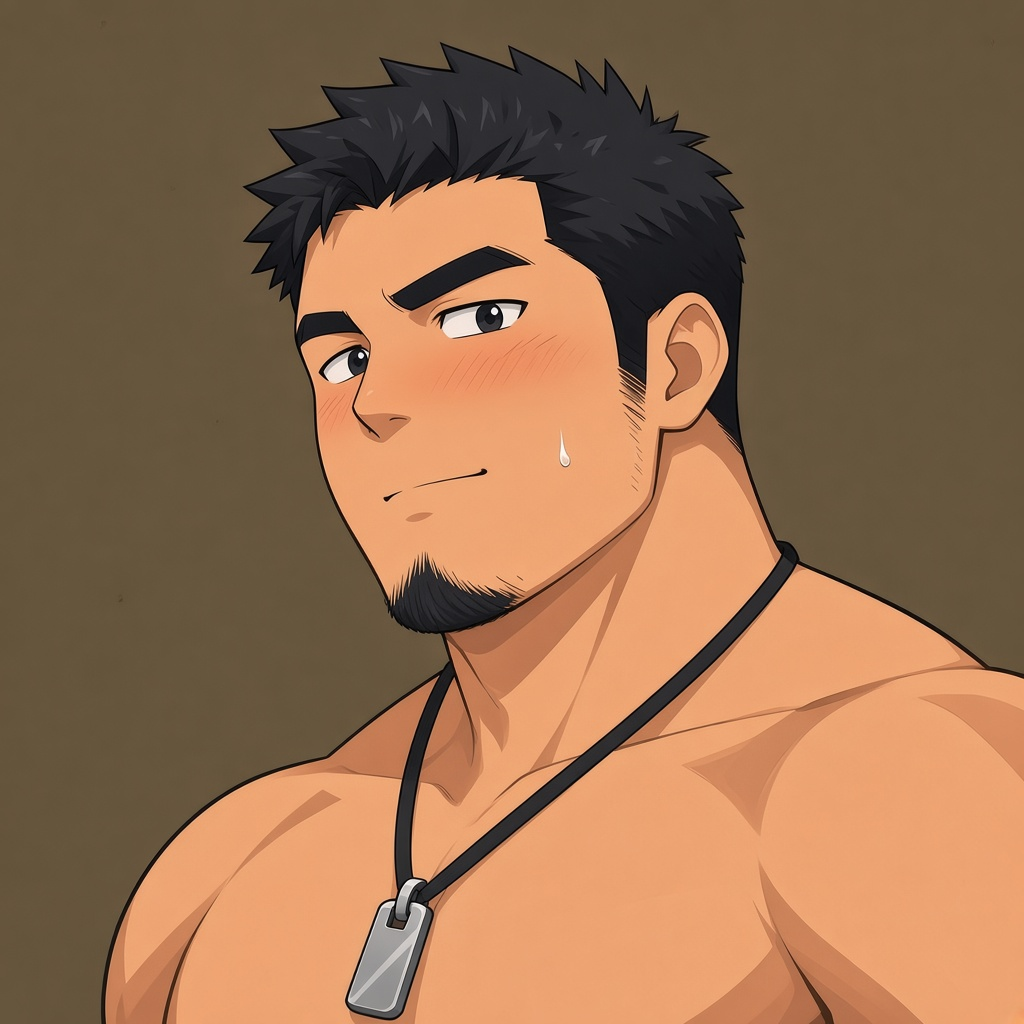
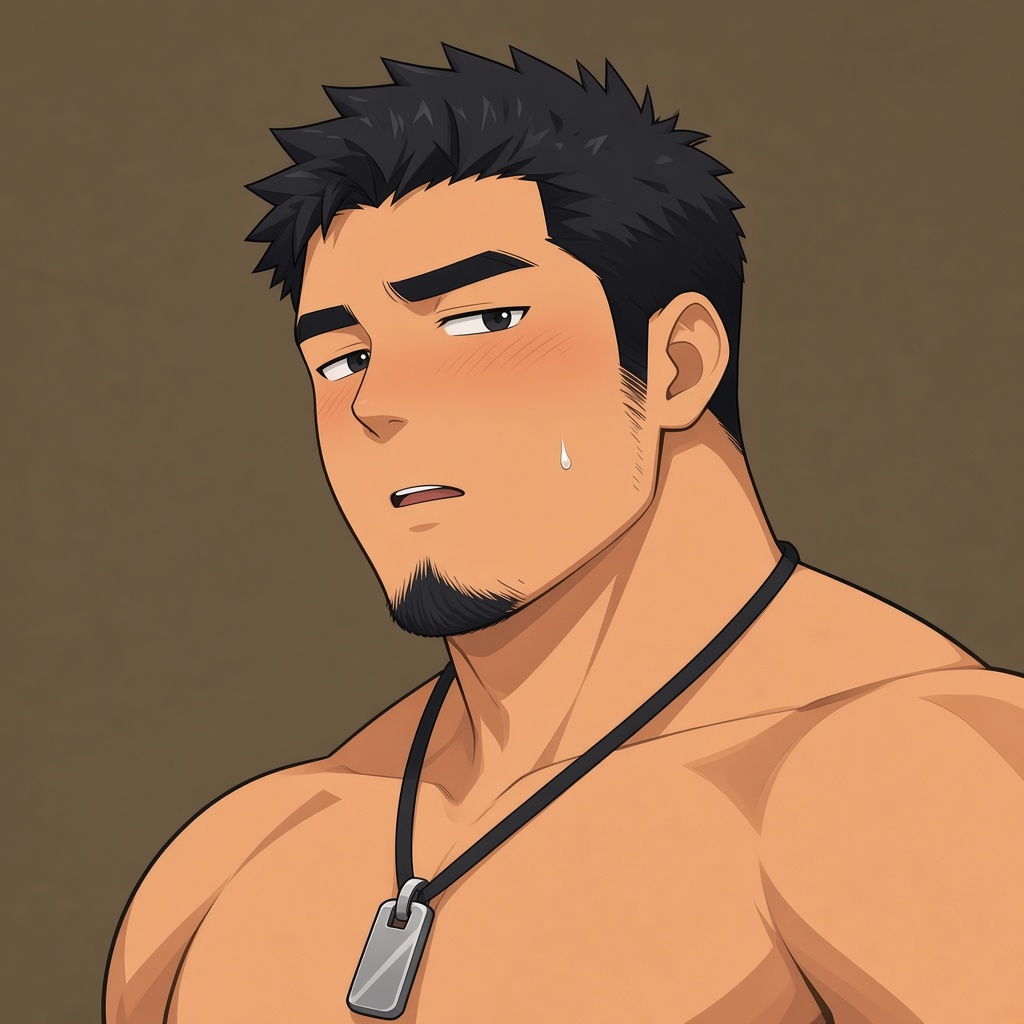
fix: 按参考改呼气的嘴和眼睛
呼气改成眼半阖、颊上有红、嘴是微张的小圆口。正视、左45°和侧面一起换。

diff --git a/人物设定图/设定说明.md b/人物设定图/设定说明.md
@@ -4,7 +4,7 @@
 
 脸用选定的那张：眉骨重、眼往侧看、下巴一小撮山羊胡。头发按参考改成短的粗块，块大、轮廓粗、块里不再画细丝。脸加宽，颊更满，下颌和颊的外轮廓是一条圆滑的弧，不再收成瘦尖的下巴。全身上的下巴跟这版圆润轮廓走。身材高、腿长。下身平黑短裤。纹身和旁边的人不进设定。黑绳狗牌和颊上那滴汗只留在头部还原这一套里。
 
-选定的脸还是 `脸部选定/正面.jpg`，那张头是微侧的，眼往旁边看，不当正视。当前只收平视。方向和表情合在 `脸部选定平视.jpg`。方向里的第一格改成正视：脸正对镜头，两耳都在，鼻子在中线，文件是 `脸部选定/正视.jpg`。正视下颌只顺着原来的弧轻轻收一点，不把嘴和下巴掐窄。眼睛和耳朵不动。脸宽和肩宽跟选定的脸对齐。侧面下颌线用上一版：脸上是一条圆滑的弧，从耳前弯到下巴。下巴接到脖子的那条外轮廓不动。方向有正视、左45°、右45°、侧面、背面。表情有平视、侧目、沉脸、怒、惊讶，以及隐忍、喘息、眯眼、高潮、失神、坏笑、微喘、抿嘴、陶醉、吃惊、呼气。每种表情有正视、左45°、侧面。侧目是头仍正对镜头，眼往侧看，嘴角轻笑。平视嘴是平的。沉脸嘴绷直。怒是眉压下去。惊讶张嘴睁眼。隐忍咬牙。喘息张嘴、瞳仁还在。眯眼是眼闭上。高潮眼白上翻。失神是眼松、嘴也松。坏笑嘴角歪、露一点牙。微喘只张开一条缝。抿嘴不露牙。陶醉半眯眼，带着软笑。吃惊眼睁圆、嘴只开一个小口。呼气嘴收得更小，嘴角往一边撇。仰视和俯视这轮不收。
+选定的脸还是 `脸部选定/正面.jpg`，那张头是微侧的，眼往旁边看，不当正视。当前只收平视。方向和表情合在 `脸部选定平视.jpg`。方向里的第一格改成正视：脸正对镜头，两耳都在，鼻子在中线，文件是 `脸部选定/正视.jpg`。正视下颌只顺着原来的弧轻轻收一点，不把嘴和下巴掐窄。眼睛和耳朵不动。脸宽和肩宽跟选定的脸对齐。侧面下颌线用上一版：脸上是一条圆滑的弧，从耳前弯到下巴。下巴接到脖子的那条外轮廓不动。方向有正视、左45°、右45°、侧面、背面。表情有平视、侧目、沉脸、怒、惊讶，以及隐忍、喘息、眯眼、高潮、失神、坏笑、微喘、抿嘴、陶醉、吃惊、呼气。每种表情有正视、左45°、侧面。侧目是头仍正对镜头，眼往侧看，嘴角轻笑。平视嘴是平的。沉脸嘴绷直。怒是眉压下去。惊讶张嘴睁眼。隐忍咬牙。喘息张嘴、瞳仁还在。眯眼是眼闭上。高潮眼白上翻。失神是眼松、嘴也松。坏笑嘴角歪、露一点牙。微喘只张开一条缝。抿嘴不露牙。陶醉半眯眼，带着软笑。吃惊眼睁圆、嘴只开一个小口。呼气是眼半阖，颊上有红，嘴是一个小圆口，微微张开。仰视和俯视这轮不收。
 
 ## 识别点
 
